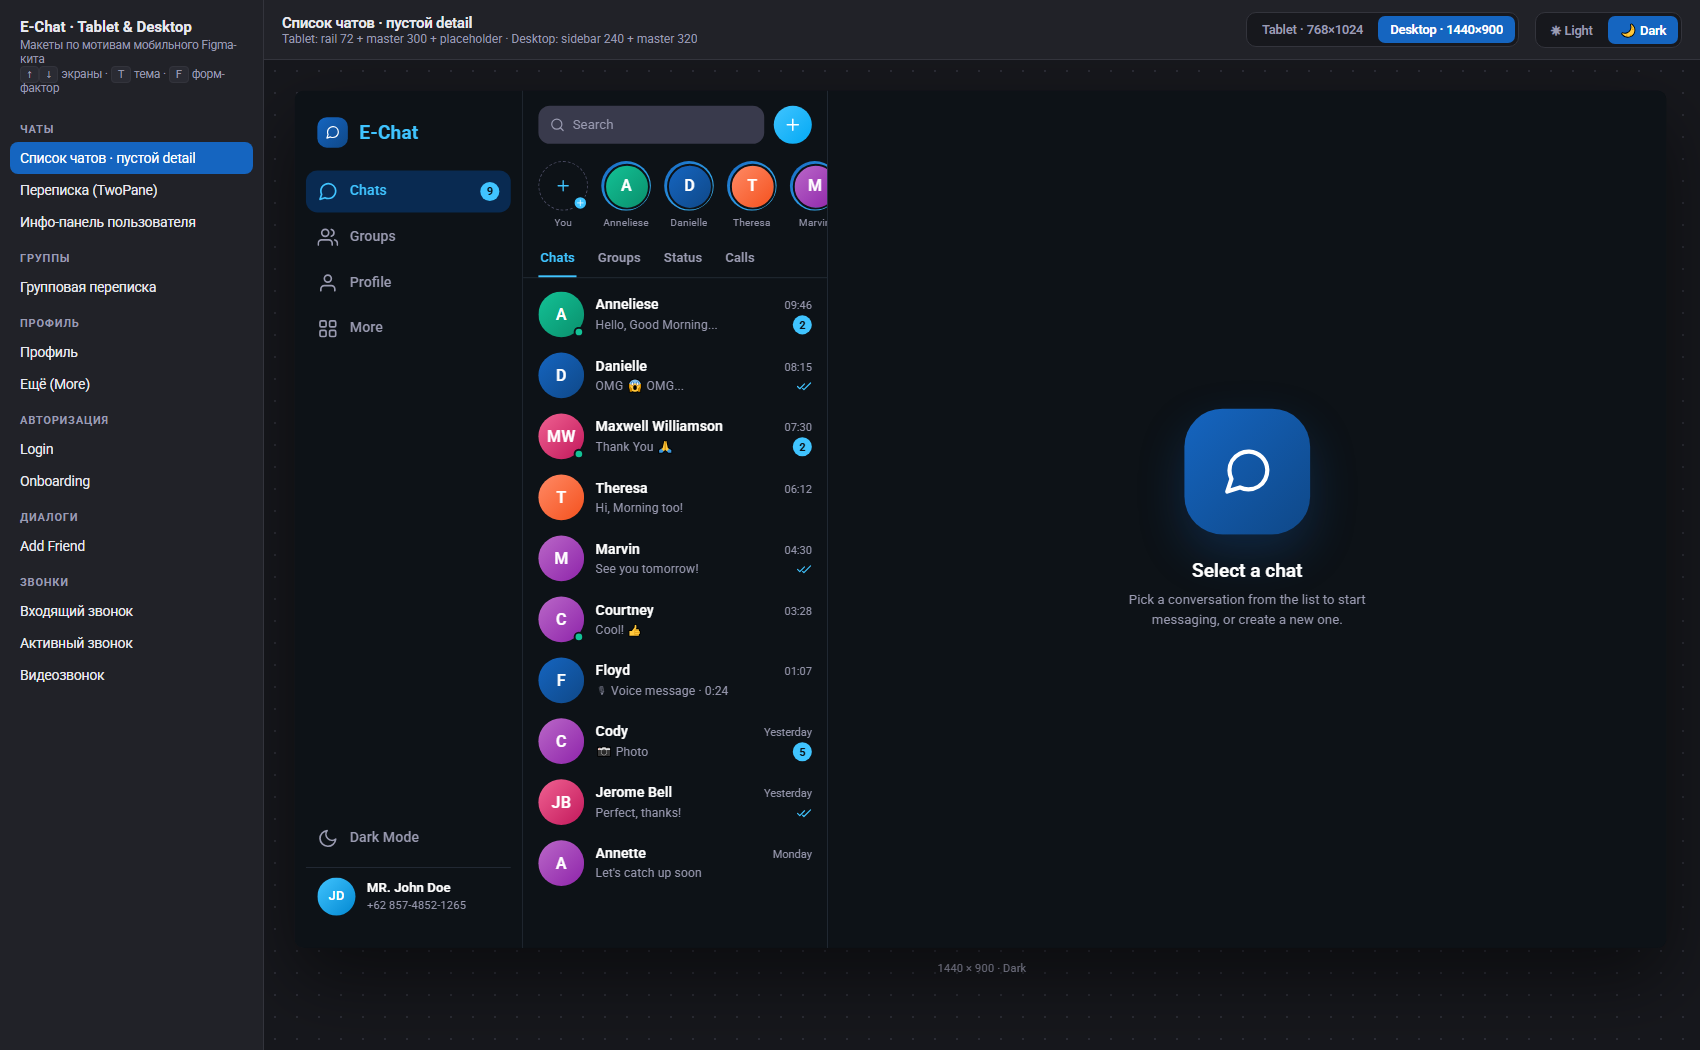
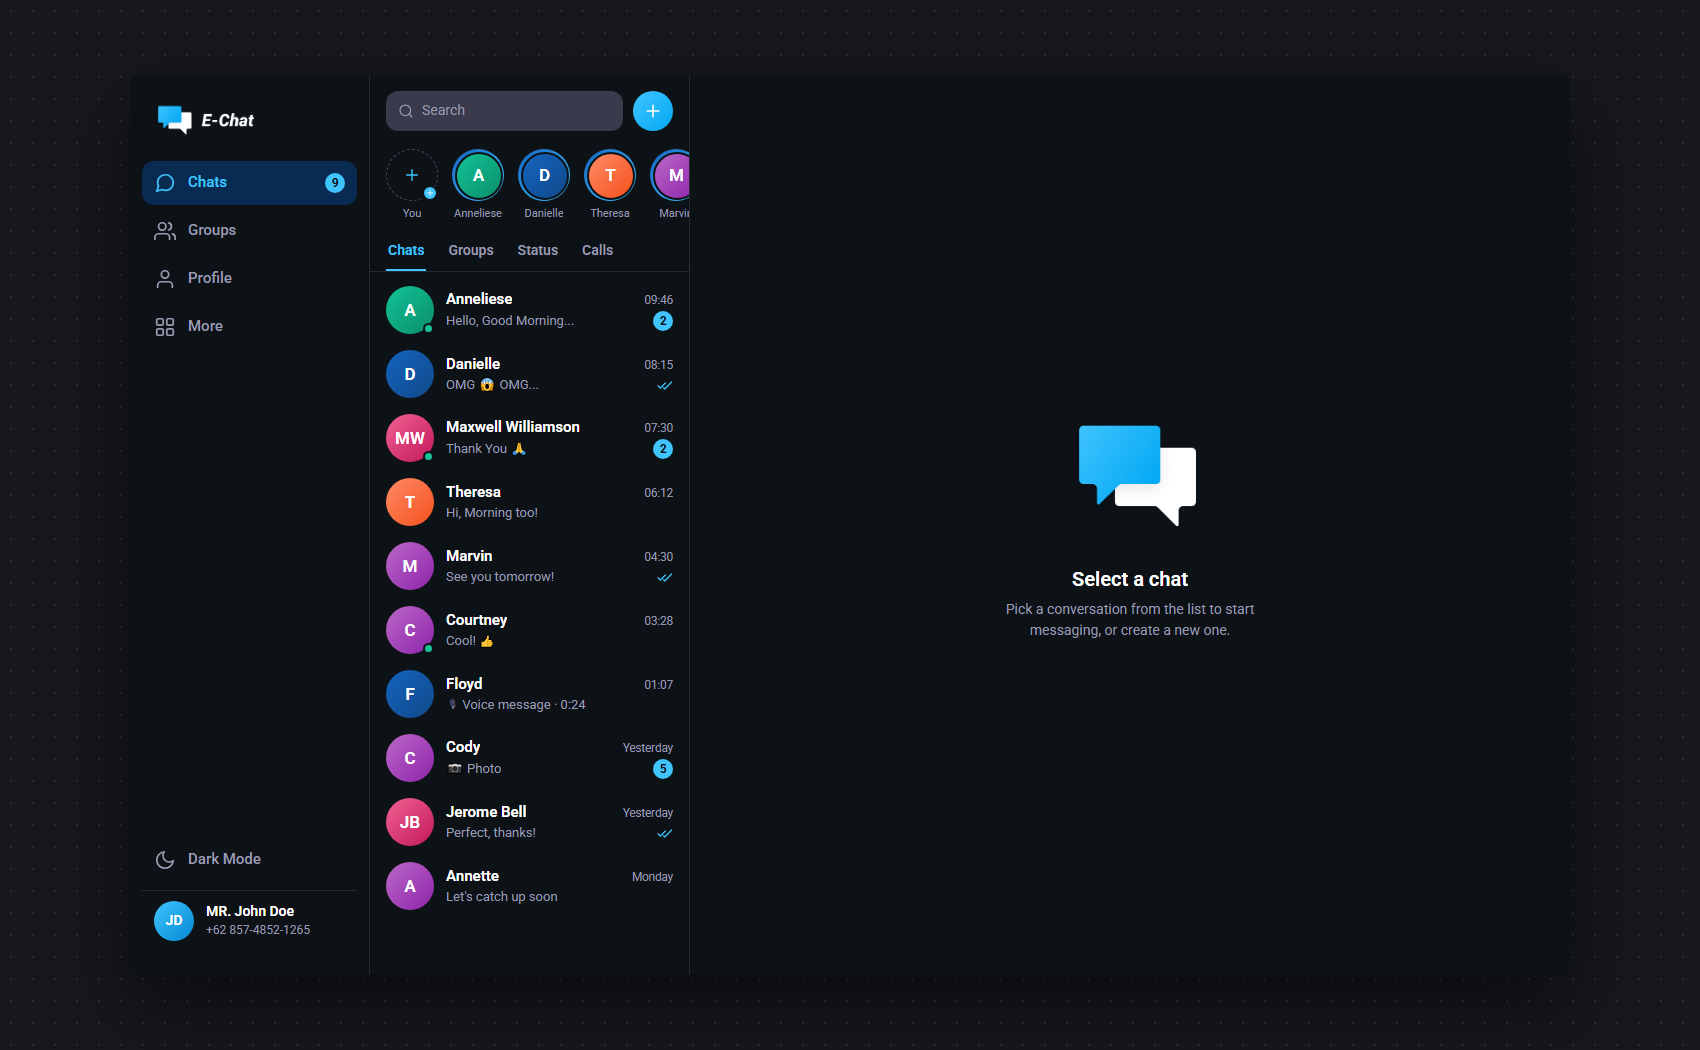
feat(design): заменить CSS-логотипы на файлы бренда, перевести форму входа на email и пароль без соцкнопок

diff --git a/docs/design_kimi/screens.js b/docs/design_kimi/screens.js
@@ -2,7 +2,8 @@
    E-Chat · Tablet & Desktop mockups — рендер экранов
    Каждый экран — функция render(ff), ff = 'tablet' | 'desktop'.
    Тема применяется через data-theme на .frame (см. tokens.css).
-   Тексты UI — на английском (язык оригинального Figma-кита).
+   Тексты UI — на английском (язык оригинального Figma-кита);
+   форма авторизации — на русском (целевая локаль приложения).
    ========================================================================== */
 
 /* ---------------------------------------------------------------- Иконки */
@@ -42,13 +43,33 @@ const ICONS = {
   logout: '<path d="M9 21H5a2 2 0 0 1-2-2V5a2 2 0 0 1 2-2h4"/><path d="M16 17l5-5-5-5"/><path d="M21 12H9"/>',
   chevR: '<path d="M9 18l6-6-6-6"/>',
   lock: '<rect x="3" y="11" width="18" height="11" rx="2"/><path d="M7 11V7a5 5 0 0 1 10 0v4"/>',
+  mail: '<rect x="2" y="4" width="20" height="16" rx="2"/><path d="M22 6l-10 7L2 6"/>',
   speaker: '<path d="M11 5L6 9H2v6h4l5 4V5z"/><path d="M19.07 4.93a10 10 0 0 1 0 14.14"/><path d="M15.54 8.46a5 5 0 0 1 0 7.07"/>',
-  google: '<path fill="#4285F4" d="M23.5 12.27c0-.85-.08-1.66-.22-2.45H12v4.64h6.45a5.52 5.52 0 0 1-2.39 3.62v3h3.87c2.26-2.09 3.57-5.17 3.57-8.81z"/><path fill="#34A853" d="M12 24c3.24 0 5.96-1.07 7.94-2.91l-3.87-3c-1.07.72-2.44 1.15-4.07 1.15-3.13 0-5.78-2.11-6.73-4.96H1.29v3.1A12 12 0 0 0 12 24z"/><path fill="#FBBC05" d="M5.27 14.28A7.2 7.2 0 0 1 4.89 12c0-.79.14-1.56.38-2.28v-3.1H1.29a12 12 0 0 0 0 10.76l3.98-3.1z"/><path fill="#EA4335" d="M12 4.77c1.76 0 3.34.61 4.58 1.8l3.44-3.44A11.98 11.98 0 0 0 12 0 12 12 0 0 0 1.29 6.62l3.98 3.1c.95-2.85 3.6-4.95 6.73-4.95z"/>',
 };
 
-/** svg-обёртка для глифа; fill=true — иконки с собственной заливкой (Google) */
-function ic(name, size = 24, fill = false) {
-  return `<svg class="${fill ? 'ic-fill' : 'ic'}" width="${size}" height="${size}" viewBox="0 0 24 24">${ICONS[name]}</svg>`;
+/** svg-обёртка для глифа */
+function ic(name, size = 24) {
+  return `<svg class="ic" width="${size}" height="${size}" viewBox="0 0 24 24">${ICONS[name]}</svg>`;
+}
+
+/* ---------------------------------------------------------------- Логотип */
+/* Файлы бренда из assets/logos: знак (174×158) и знак + wordmark (465×158).
+   Версия под тему переключается классами logo-l / logo-d (см. tokens.css). */
+const LOGO_DIR = '../../assets/logos';
+
+/** Знак логотипа без подписи — rail, empty-state */
+function logoMark(size) {
+  const h = Math.round(size * 158 / 174);
+  return `<img class="logo-img logo-l" src="${LOGO_DIR}/logo_light.png" width="${size}" height="${h}" alt="E-Chat" />`
+    + `<img class="logo-img logo-d" src="${LOGO_DIR}/logo_dark.png" width="${size}" height="${h}" alt="E-Chat" />`;
+}
+
+/** Логотип с подписью E-CHAT; forceDark — на цветных панелях (фон всегда тёмный) */
+function logoFull(height, forceDark = false) {
+  const w = Math.round(height * 465 / 158);
+  if (forceDark) return `<img class="logo-img" src="${LOGO_DIR}/logo_echat_dark.png" width="${w}" height="${height}" alt="E-Chat" />`;
+  return `<img class="logo-img logo-l" src="${LOGO_DIR}/logo_echat_light.png" width="${w}" height="${height}" alt="E-Chat" />`
+    + `<img class="logo-img logo-d" src="${LOGO_DIR}/logo_echat_dark.png" width="${w}" height="${height}" alt="E-Chat" />`;
 }
 
 /* ---------------------------------------------------------------- Аватары */
@@ -93,14 +114,14 @@ function chrome(active, ff) {
   ];
   if (ff === 'tablet') {
     return `<nav class="rail">
-      <div class="logo-badge grad-blue">${ic('chat', 20)}</div>
+      ${logoMark(40)}
       ${dests.map(d => `<button class="dest ${d.id === active ? 'active' : ''}" title="${d.label}">${ic(d.icon, 24)}</button>`).join('')}
       <div class="spacer"></div>
       ${av('John Doe', 40)}
     </nav>`;
   }
   return `<nav class="sidebar">
-    <div class="brand"><div class="logo-badge sm grad-blue">${ic('chat', 16)}</div><span class="brand-name">E-Chat</span></div>
+    <div class="brand">${logoFull(34)}</div>
     ${dests.map(d => `<button class="dest ${d.id === active ? 'active' : ''}">${ic(d.icon, 22)}<span class="lbl">${d.label}</span>${d.id === 'chats' ? '<span class="badge">9</span>' : ''}</button>`).join('')}
     <div class="spacer"></div>
     <button class="dest">${ic('moon', 22)}<span class="lbl">Dark Mode</span></button>
@@ -178,7 +199,7 @@ function chatBar(name, status, opts = {}) {
 /** Пустое состояние detail (чат не выбран) */
 function emptyDetail() {
   return `<div class="empty-detail">
-    <div class="art grad-blue">${ic('chat', 56)}</div>
+    <div class="art" style="background:none;box-shadow:none">${logoMark(132)}</div>
     <h2>Select a chat</h2>
     <p>Pick a conversation from the list to start messaging, or create a new one.</p>
   </div>`;
@@ -344,18 +365,18 @@ function screenMore(ff) {
   </section>`;
 }
 
-/** Форма логина — общая для карточки и split */
+/** Форма логина — общая для карточки и split; вход по email и паролю */
 function loginForm() {
-  return `<div style="display:flex;align-items:center;gap:10px"><div class="logo-badge grad-blue">${ic('chat', 20)}</div><span class="brand-name">E-Chat</span></div>
-  <h2>Login to your account</h2>
-  <div class="sub">Welcome back! Please enter your phone number.</div>
-  <label class="field-label">Phone Number</label>
-  <div class="input">${ic('phone', 18)}<input placeholder="Phone Number" /></div>
-  <button class="btn-primary">Next</button>
-  <div class="divider-or">Or sign in with</div>
-  <button class="btn-outline">${ic('google', 20, true)}Google</button>
-  <button class="btn-outline">${ic('phone', 18)}Phone</button>
-  <div class="auth-foot">Don't have an account? <a href="#">Sign up</a></div>`;
+  return `${logoFull(40)}
+  <h2>Добро пожаловать</h2>
+  <div class="sub">Войдите в свой аккаунт</div>
+  <label class="field-label">Email</label>
+  <div class="input">${ic('mail', 18)}<input type="email" placeholder="you@example.com" /></div>
+  <label class="field-label" style="margin-top:16px">Пароль</label>
+  <div class="input">${ic('lock', 18)}<input type="password" placeholder="••••••••" /></div>
+  <div class="auth-forgot"><a href="#">Забыли пароль?</a></div>
+  <button class="btn-primary">Войти</button>
+  <div class="auth-foot">Нет аккаунта? <a href="#">Создать</a></div>`;
 }
 
 /** 7. Auth — Login: tablet portrait — карточка 480; desktop и tablet landscape (1024) — split brand + форма */
@@ -365,7 +386,7 @@ function screenAuthLogin(ff) {
       <div class="auth-brand grad-blue">
         <div class="deco" style="width:220px;height:220px;top:-70px;right:-60px;transform:rotate(24deg)"></div>
         <div class="deco" style="width:140px;height:140px;top:120px;right:60px;transform:rotate(-14deg);background:rgba(255,255,255,.07)"></div>
-        <div style="display:flex;align-items:center;gap:12px"><div class="logo-badge" style="background:rgba(255,255,255,.16)">${ic('chat', 20)}</div><span style="font-size:20px;font-weight:700">E-Chat</span></div>
+        <div>${logoFull(44, true)}</div>
         <h1>Connect with friends, anywhere.</h1>
         <p>Fast, simple and secure messaging — now on the big screen.</p>
       </div>
@@ -486,7 +507,7 @@ const SCREENS = [
     note: 'Профильная карточка-строка + полное меню настроек в MaxWidthBox 560',
     render: screenMore },
   { id: 'auth-login', group: 'Авторизация', title: 'Login',
-    note: 'Tablet portrait: карточка 480 по центру · Tablet landscape / Desktop: split — brand-панель ≤40% + форма 440',
+    note: 'Вход по email и паролю, без соцкнопок · Tablet portrait: карточка 480 · Tablet landscape / Desktop: split — brand ≤40% + форма 440',
     render: screenAuthLogin },
   { id: 'auth-onboarding', group: 'Авторизация', title: 'Onboarding',
     note: 'Центрированная композиция max 440 на обоих форм-факторах',

diff --git a/docs/design_kimi/tokens.css b/docs/design_kimi/tokens.css
@@ -1,7 +1,7 @@
 /* ==========================================================================
    E-Chat · Tablet & Desktop mockups — токены и компоненты
    Источник токенов: docs/echat_colors.dart (Figma Design Tokens)
-   Макетный текст — на английском (язык оригинального кита), комментарии — RU.
+   Макетный текст — на английском (язык оригинального кита), auth — на русском; комментарии — RU.
    ========================================================================== */
 
 * { box-sizing: border-box; margin: 0; padding: 0; }
@@ -102,7 +102,6 @@ body {
 }
 .app svg { display: block; }
 .ic { stroke: currentColor; fill: none; stroke-width: 1.9; stroke-linecap: round; stroke-linejoin: round; }
-.ic-fill { fill: currentColor; stroke: none; }
 
 /* --------------------------------------------------------------------------
    Навигационный chrome: rail (tablet) / sidebar (desktop)
@@ -124,13 +123,15 @@ body {
   display: flex; align-items: center; gap: 12px;
   padding: 4px 12px 20px;
 }
-.brand-name { font-size: 20px; font-weight: 700; letter-spacing: .2px; color: var(--primary); }
-
 .logo-badge {
   width: 40px; height: 40px; border-radius: 12px; flex: none;
   display: grid; place-items: center; color: #fff;
 }
-.logo-badge.sm { width: 32px; height: 32px; border-radius: 10px; }
+
+/* Логотипы бренда (assets/logos): версия под тему фрейма */
+.logo-img { display: block; object-fit: contain; }
+.frame[data-theme="light"] .logo-d { display: none; }
+.frame[data-theme="dark"] .logo-l { display: none; }
 
 .dest {
   display: flex; align-items: center; gap: 12px;
@@ -474,6 +475,9 @@ body {
 .input:focus-within { border-color: var(--secondary); border-width: 2px; padding: 12.5px 13.5px; }
 .input input { flex: 1; border: 0; outline: 0; background: none; font: inherit; color: var(--on-surface); }
 .input input::placeholder { color: var(--on-variant); }
+
+.auth-forgot { text-align: right; margin-top: 10px; }
+.auth-forgot a { color: var(--primary); font-size: 13.5px; font-weight: 600; text-decoration: none; }
 
 .btn-primary {
   width: 100%; border: 0; cursor: pointer; font: inherit;

diff --git a/docs/design_kimi/README.md b/docs/design_kimi/README.md
@@ -70,7 +70,7 @@
 | 4 | Группы · переписка | `Groups _ Conversation.png` | TwoPane; отправители цветом, карточка документа |
 | 5 | Профиль | `Profile.png` | одна колонка, MaxWidthBox 560 |
 | 6 | Ещё (More) | `More.png` | MaxWidthBox 560, полное меню |
-| 7 | Login | `Login _ Empty.png` | Tablet: карточка 480 · Desktop: split |
+| 7 | Login (email + пароль) | `Login _ Empty.png` | Tablet: карточка 480 · Desktop: split; вход по email и паролю, без соцкнопок |
 | 8 | Onboarding | `Introduce _ Step 1.png` | центрированная композиция 440 |
 | 9 | Add Friend | `Add Function _ Add Friend.png` | bottom sheet → centered dialog 480 |
 | 10 | Входящий звонок | `Chats _ Call.png` | Tablet: full overlay · Desktop: панель 420×780 |
@@ -100,3 +100,5 @@
 | `index.html` | Просмотрщик: список экранов, переключатели форм-фактора/темы, масштабирование |
 | `tokens.css` | Токены Light/Dark (зеркало `echat_colors.dart`) + стили компонентов |
 | `screens.js` | Рендер-функции 12 экранов + реестр |
+
+Логотипы в макетах — файлы из [assets/logos/](../../assets/logos): `logo_echat_light/dark.png` (знак + wordmark, 465×158) в сайдбаре и на экране авторизации, `logo_light/dark.png` (знак, 174×158) в rail и empty-state. Версия под тему переключается классами `logo-l` / `logo-d` (см. `tokens.css`).
